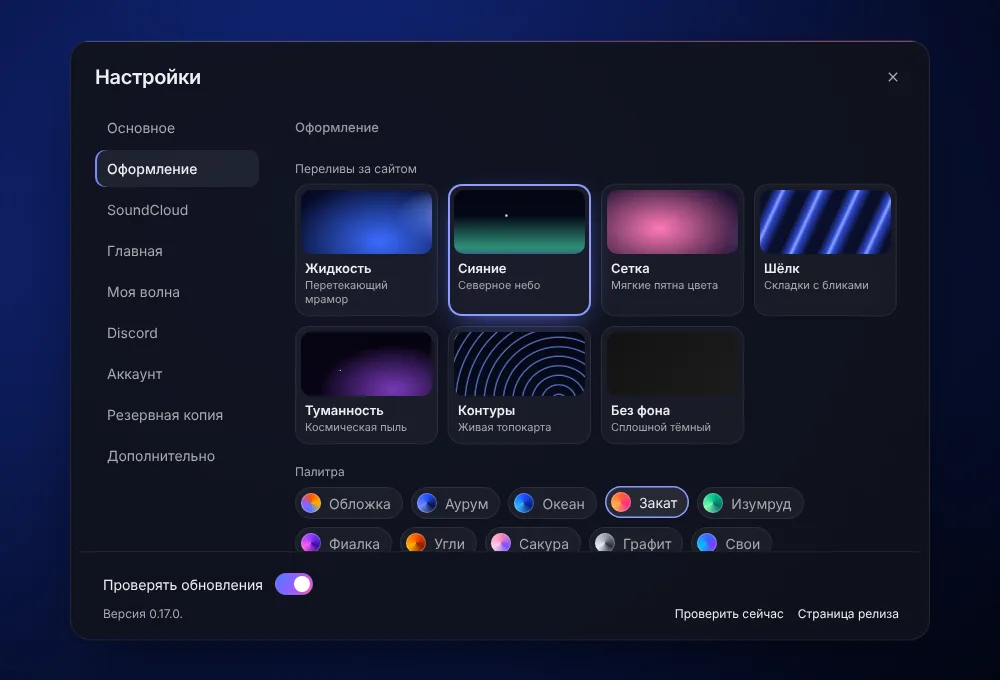
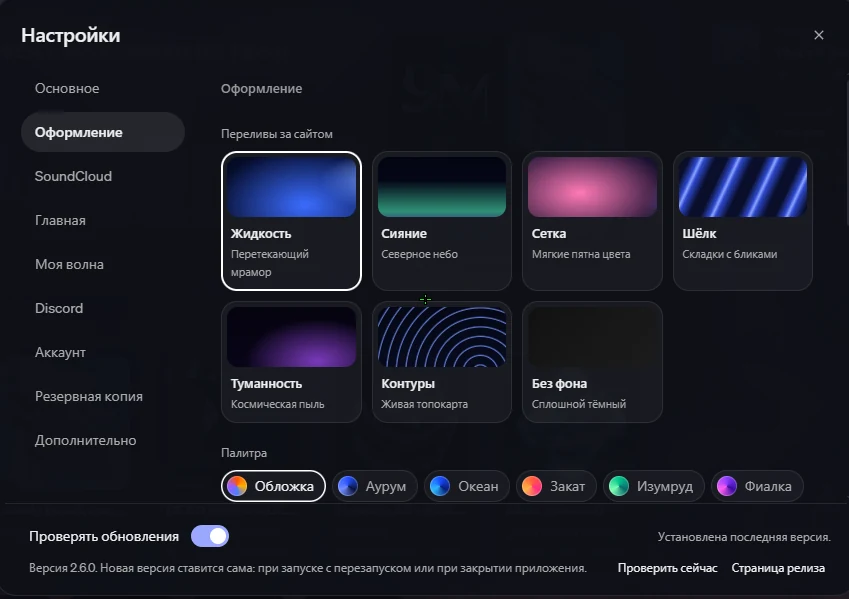
2.6.1: новые скриншоты в README, старые убраны

Changed region(s): [[0.0, 0.0, 1.0, 1.0], [0.98, 0.1503, 1.0, 0.3606]]

diff --git a/README.md b/README.md
@@ -1,6 +1,6 @@
 <div align="center">
 
-<img src="assets/readme/banner.webp" width="100%" alt="SoundCloud 2: десктопный SoundCloud, который сам находит музыку под настроение">
+<img src="assets/readme/banner.webp" width="100%" alt="SoundCloud 2: главная в окне, «Моя волна» и подборки">
 
 <br>
 
@@ -14,7 +14,7 @@
 
 <br>
 
-<img src="assets/readme/home.webp" width="100%" alt="Главная SoundCloud 2: строка «Волны по описанию», стеклянный блок «Моей волны» в цветах обложки, переливы за сайтом">
+<img src="assets/readme/home.webp" width="100%" alt="Главная SoundCloud 2 в полном окне: «Моя волна» в цветах обложки, стеклянные панели, переливы за сайтом">
 
 Это soundcloud.com в своём окне, только умнее и красивее. Пишешь словами, что хочешь услышать, и клиент сам собирает топ треков и дальше ведёт волну похожим. Песни на русском можно убрать из рекомендаций одним переключателем. За сайтом переливается живой фон на WebGL в цветах играющей обложки, панели поверх него стеклянные.
 
@@ -65,10 +65,6 @@
 - Правый клик по значку в трее открывает окошко в стиле клиента: играющий трек с обложкой, управление, лайк, «Открыть», «Оформление», «Настройки», «Инкогнито в Discord» и «Выход». В режиме совместимости NVIDIA, где отдельные окна ненадёжны, вместо него системное меню с тем же: трек, управление, лайк, «Оформление».
 - В шапке окна рядом с настройками кнопка-палитра: она открывает <kbd>F1</kbd> сразу на разделе «Оформление».
 
-<img src="assets/readme/tray.webp" width="320" alt="Меню трея SoundCloud 2: обложка и трек, управление и лайк, пункты меню">
-
-<img src="assets/readme/bar.webp" width="100%" alt="Нижний бар: спектр-линия прогресса в цветах обложки, док с кнопками «Не нравится», «Больше такого», «Волна», «Следующим», полоска быстрых действий над строкой трека">
-
 ### Для тебя
 
 Под волной ряд карточек с рекомендациями. Артисты, похожие на тех, кого ты лайкаешь чаще всего, но которых ты ещё не слушал: клик включает волну по артисту. Ниже твои подборки SoundCloud (Daily Drops, Weekly Wave, Your Mix) с обложкой из первых треков, клик включает подборку, после неё волна продолжает похожим.
@@ -96,9 +92,7 @@
 - **Моушен**: карточки приподнимаются на наведении, кнопки пружинят, у строки поиска переливается рамка. «Меньше анимаций» и системная настройка движения всё это выключают.
 - **Качество**: «Эко», «Баланс» или «Максимум». Фон рисуется в пониженном разрешении с ограничением кадров, а на свёрнутом окне не рисуется вовсе.
 
-<img src="assets/readme/appearance.webp" width="100%" alt="Раздел «Оформление» в F1: карточки эффектов с превью и палитры">
-
-<img src="assets/readme/backgrounds.webp" width="100%" alt="Шесть эффектов фона в палитрах «Аурум» и «Закат»">
+<img src="assets/readme/appearance.webp" width="100%" alt="Раздел «Оформление» в F1: переливы за сайтом, палитры и стекло">
 
 <sub>Сверху вниз и слева направо: сияние, контуры, жидкость, сетка, туманность, шёлк в палитре «Аурум», затем те же в «Закате».</sub>
 
@@ -114,8 +108,6 @@
 Запустить вручную: вкладка Actions → «Обновления из оригинала» → Run workflow. Локально: `node scripts/sync-upstream.cjs --dry-run`.
 
 ## Моя волна
-
-<img src="assets/readme/wave.webp" width="100%" alt="Главная клиента: играет «Моя волна», за блоком свет в цветах обложки, ниже очередь, пресеты настроения, закрепления и блок «Моя музыка»">
 
 Жмёшь play, и клиент собирает бесконечную очередь из похожего на то, что ты слушаешь и лайкаешь. Пока трек играет, очередь догружается, один артист не идёт подряд, а под треком подписано, почему он в волне. За блоком волны медленно плывут мягкие пятна цветов обложки, на паузе они замирают. Что ещё умеет волна:
 
@@ -136,8 +128,6 @@
 
 Источники и порядок можно менять во время игры: текущий трек не прерывается, меняются только треки впереди. В статусе число треков, которые сыграют целиком, а отрывки Go+ и закрытое в стране идут отдельной пометкой: «377 треков, 69 недоступны».
 
-<img src="assets/readme/library.webp" width="100%" alt="Блок «Моя музыка»: играют лайки и плейлист «Ночная смена», 72 трека, открыт выбор источников со значком волны у «Ночной смены»">
-
 ### Подборки на каждый день
 
 Ниже каждый день новая полка:
@@ -152,8 +142,6 @@
 
 Нажми на карточку, и под полкой раскроется её список, даже в маленьком окне он сам встанет в поле зрения. Любой трек из него можно включить первым, а за ним пойдёт остальная подборка.
 
-<img src="assets/readme/mixes.webp" width="100%" alt="Полка подборок с плейлистом момента, «Разведкой» и раскрытой подборкой «Лайкнули твои артисты»: список треков в две колонки, играющий подсвечен">
-
 Полки сайта на главной скрыты, волна их заменяет. Вернуть любую можно в настройках: <kbd>F1</kbd> → Главная.
 
 Треки Go+, которые без подписки играют 30 секунд, и миксы длиннее 15 минут в волну не попадают.
@@ -161,8 +149,6 @@
 ### Очередь и продолжение прослушивания
 
 Кнопка очереди в шапке открывает список треков. В меню трека можно поставить его следующим или добавить в конец, а будущие треки в очереди переставлять и удалять. Очередь можно сохранить и включить позже из «Сохранённых очередей»; плейлист в аккаунте SoundCloud при этом не создаётся.
-
-<img src="assets/readme/queue.webp" width="100%" alt="Окно очереди: треки выпуска радара, играющий подсвечен, ниже сохранённые очереди">
 
 После перезапуска клиент восстанавливает очередь, источник волны и позицию, а музыку держит на паузе, пока ты не нажмёшь play. При временном сбое сети показывает статус и повторяет подключение, сохраняя очередь. Если страница упала, зависла или открылась без сети, клиент поднимает её сам.
 
@@ -177,8 +163,6 @@
 - **«Уже слышал»**: треки, которые ты уже слушал или лайкнул, клиент помечает и ставит в конец выпуска.
 - **Архив и «Все найденные»**: прошлый выпуск выбираешь в списке над треками, а «Все найденные» покажут всё, что клиент нашёл за неделю, с фильтром по релизам и загрузкам.
 
-<img src="assets/readme/radar.webp" width="100%" alt="Раскрытый радар релизов: список выпуска в две колонки, группы артистов, архив выпусков и кнопка «Все найденные»">
-
 Выпуск играет по порядку, после него волна продолжает похожим. День и время выпуска меняешь в <kbd>F1</kbd> → Моя волна. Если в это время клиент был закрыт, он соберёт выпуск при следующем запуске.
 
 ## История
@@ -190,23 +174,6 @@
 - **Вкус глазами волны**: артисты и теги, на которые она опирается. Лишнего артиста или тег можно убрать из вкуса.
 - **Как попадает волна**: сколько треков волны ты пропускаешь в первые 30 секунд и сколько дослушиваешь, рядом со своей музыкой и прошлым периодом. Там же лайки, «Больше такого», отказы, новые артисты, пропуски по дням и разбор по подборкам, причинам подбора и месту трека в очереди.
 - **Сводка недели**: карточка с часами музыки, топом треков и артистов, любимыми жанрами и самой музыкальной частью суток. Восемь цветов на выбор, картинку можно скопировать или сохранить. Когда сводка прошлой недели готова, у кнопки истории загорается точка.
-
-<img src="assets/readme/history.webp" width="100%" alt="Страница истории: 34 часа 41 минута музыки за 30 дней, кнопка «Сводка недели», столбики по дням, любимые артисты">
-
-<table>
-  <tr>
-    <td width="50%" valign="top"><img src="assets/readme/history-when.webp" alt="Жанры и карта прослушиваний по часам и дням недели"></td>
-    <td width="50%" valign="top"><img src="assets/readme/history-taste.webp" alt="Артисты, которых волна ставит чаще"></td>
-  </tr>
-  <tr>
-    <td valign="top"><sub>Жанры и карта: в какие часы и дни недели ты слушаешь</sub></td>
-    <td valign="top"><sub>Артисты, которых волна ставит чаще</sub></td>
-  </tr>
-</table>
-
-<img src="assets/readme/history-wave.webp" width="100%" alt="Блок «Как попадает волна» за 30 дней: 11% пропущено до 0:30, 72% дослушано, пропуски по дням, разбор по подборкам, причинам, месту в выдаче и тому, откуда взят трек">
-
-<img src="assets/readme/recap.webp" width="100%" alt="Сводка недели: ник и аватарка, 9 часов 14 минут музыки, 191 прослушивание, треки и артисты недели, любимые жанры и части суток">
 
 Трек засчитывается с 30 секунд звука. История своя у каждого аккаунта и лежит в `%APPDATA%\soundcloud-desktop`.
 
@@ -289,7 +256,9 @@
 
 Всё это включается и настраивается в окне по <kbd>F1</kbd> или по шестерёнке в шапке:
 
-<img src="assets/readme/settings.webp" width="100%" alt="Окно настроек поверх главной: раздел «Моя волна» с отметками волны, версиями и расписанием радара">
+<img src="assets/readme/settings.webp" width="100%" alt="Настройки: раздел «Основное», язык, трей, совместимость NVIDIA, проверка обновлений">
+
+<img src="assets/readme/settings-soundcloud.webp" width="100%" alt="Настройки: раздел «SoundCloud», блокировка рекламы, перемешивание очереди, пропуск тишины и плавные стыки">
 
 ## Установка
 
